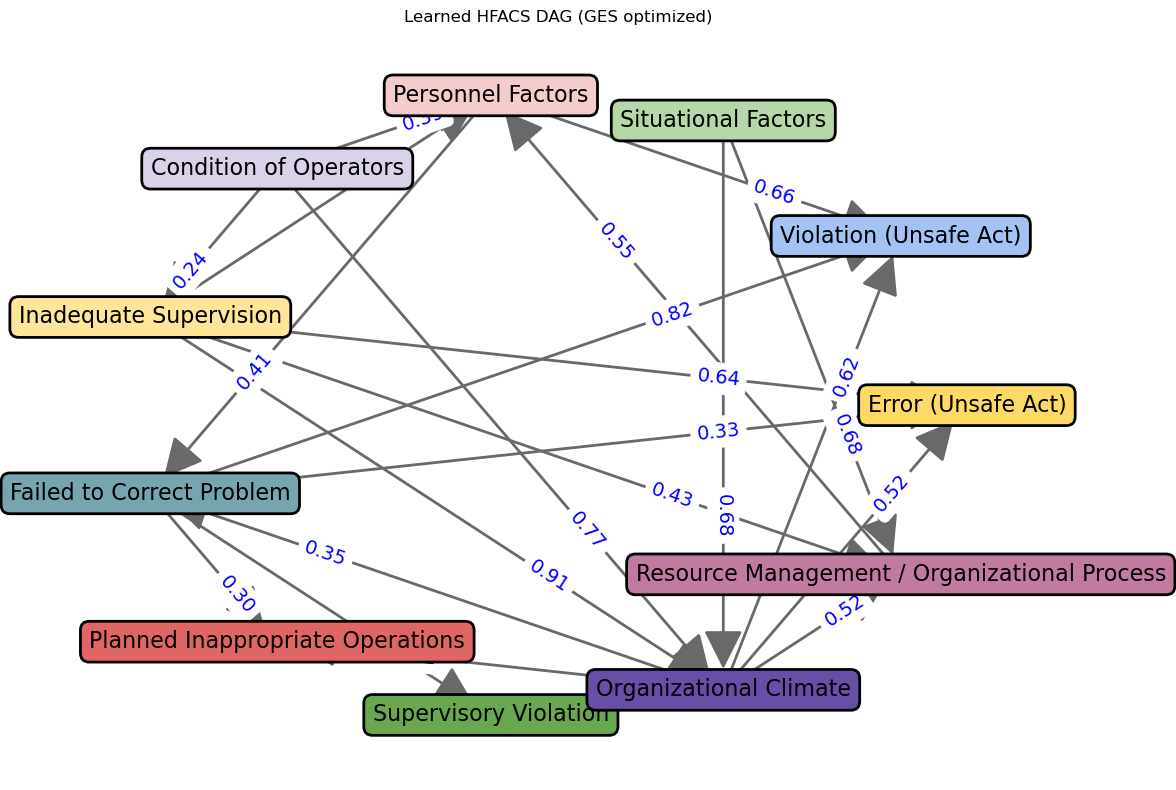
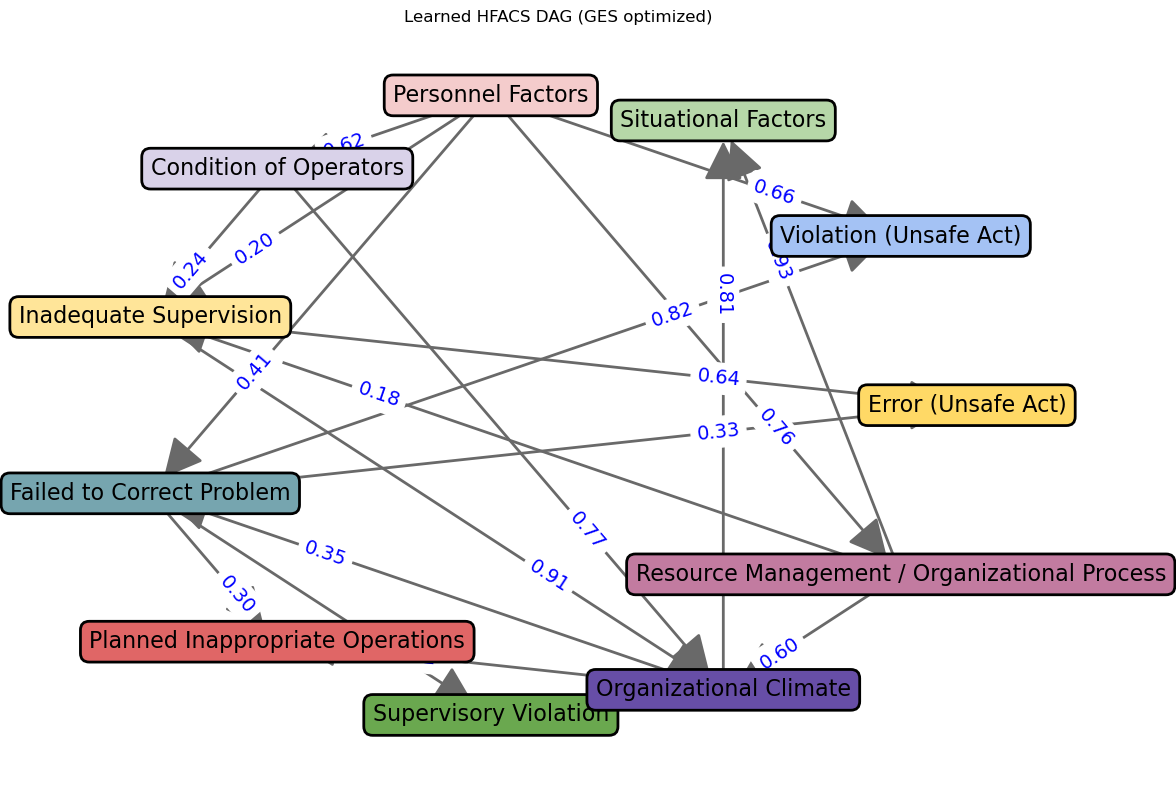
WIP

diff --git a/src/features/DAG.py b/src/features/DAG.py
@@ -4,9 +4,83 @@ import pandas as pd
 from pathlib import Path
 import networkx as nx
  
-from causallearn.search.ScoreBased.GES import ges
 
+from causallearn.search.ScoreBased.GES import ges
 from visualization.dag_graph import plot_dag
+
+# --- Load config from YAML (reuse svm.py logic) ---
+import os
+with open(os.path.join(os.path.dirname(__file__), '../../configs/config.yaml'), 'r', encoding='utf-8') as f:
+    config_yaml = yaml.safe_load(f)
+
+hfacs_categories = config_yaml['hfacs_categories']
+dag_cfg = config_yaml.get('dag', {})
+
+# Weights (reuse svm.py logic)
+error_weights = config_yaml.get('error_weights', {})
+viol_weights = config_yaml.get('viol_weights', {})
+ERROR_ANOM_COLS = list(error_weights.keys())
+VIOL_ANOM_COLS = list(viol_weights.keys())
+
+def _safe_binary_df(df: pd.DataFrame, cols: list[str]) -> pd.DataFrame:
+    """Return a 0/1 dataframe for requested cols; missing cols are treated as 0."""
+    out = pd.DataFrame(index=df.index)
+    for c in cols:
+        if c in df.columns:
+            s = pd.to_numeric(df[c], errors="coerce").fillna(0)
+            out[c] = (s > 0).astype(int)
+        else:
+            out[c] = 0
+    return out
+
+def make_three_class_target(
+    df: pd.DataFrame,
+    error_col: str,
+    viol_col: str,
+    tie_break: str = "error",
+) -> tuple[pd.Series, pd.DataFrame]:
+    """Build 3-class target: 0=neither, 1=Error, 2=Violation. Tie-breaking as described."""
+    if tie_break not in {"error", "violation"}:
+        raise ValueError("tie_break must be 'error' or 'violation'")
+    if error_col not in df.columns or viol_col not in df.columns:
+        raise KeyError(f"Missing target columns: {error_col} / {viol_col}")
+
+    err_flag = (pd.to_numeric(df[error_col], errors="coerce").fillna(0) > 0).astype(int)
+    vio_flag = (pd.to_numeric(df[viol_col], errors="coerce").fillna(0) > 0).astype(int)
+    err_df, vio_df = _safe_binary_df(df, ERROR_ANOM_COLS), _safe_binary_df(df, VIOL_ANOM_COLS)
+    err_count, vio_count = err_df.sum(axis=1), vio_df.sum(axis=1)
+    err_wsum = sum(err_df[c] * w for c, w in error_weights.items())
+    vio_wsum = sum(vio_df[c] * w for c, w in viol_weights.items())
+
+    y3 = pd.Series(0, index=df.index)
+    y3[(err_flag == 1) & (vio_flag == 0)] = 1
+    y3[(err_flag == 0) & (vio_flag == 1)] = 2
+
+    both = (err_flag == 1) & (vio_flag == 1)
+    if both.any():
+        to_error = both & (err_count > vio_count)
+        to_viol  = both & (vio_count > err_count)
+        tie_count = both & (err_count == vio_count)
+        to_error |= tie_count & (err_wsum > vio_wsum)
+        to_viol  |= tie_count & (vio_wsum > err_wsum)
+        tie_weight = tie_count & (err_wsum == vio_wsum)
+        if tie_break == "error":
+            to_error |= tie_weight
+        else:
+            to_viol |= tie_weight
+        y3[to_error] = 1
+        y3[to_viol] = 2
+
+    debug = pd.DataFrame({
+        "Error_flag": err_flag,
+        "Violation_flag": vio_flag,
+        "Err_anom_count": err_count,
+        "Viol_anom_count": vio_count,
+        "Err_weight_sum": err_wsum,
+        "Viol_weight_sum": vio_wsum,
+        "y3": y3,
+    }, index=df.index)
+    return y3, debug
 
 
 
@@ -189,6 +263,7 @@ def export_dag_outputs(G: nx.DiGraph, output_dir: str) -> None:
 
 
 
+
 def run_hfacs_causal_learn_ges(
     config_path: str = "./configs/config.yaml",
     data_path: str = "./data/processed/step3_hfacs_categories.csv",
@@ -201,7 +276,18 @@ def run_hfacs_causal_learn_ges(
     df = load_hfacs_data(data_path)
     categories = get_category_columns(config)
 
+    # --- Apply three-class scoring/weighting before DAG creation ---
+    # You can change these column names if needed
+    error_col = config.get('svm', {}).get('error_target_col', 'Error')
+    viol_col = config.get('svm', {}).get('viol_target_col', 'Violation')
+    tie_break = config.get('svm', {}).get('tie_break', 'error')
+    # Add y3 and debug columns to df
+    y3, debug = make_three_class_target(df, error_col, viol_col, tie_break)
+    df['y3'] = y3
+    # Use only rows with y3 > 0 (Error or Violation) for DAG learning
+    df = df[df['y3'] > 0].copy()
 
+    # Now proceed to DAG learning as before
     G, record = learn_dag_ges(
         df=df,
         categories=categories,
@@ -210,12 +296,9 @@ def run_hfacs_causal_learn_ges(
         score_func=score_func,
     )
 
-    
-
     export_dag_outputs(G, output_dir)
     plot_dag(G, save_path=str(Path(output_dir) / "learned_dag.pdf"))
 
-    # record often includes a score; keep print safe
     score = record.get("score", None)
     score_path = Path(output_dir) / "learned_dag_score.txt"
     if score is not None:

diff --git a/src/main.py b/src/main.py
@@ -324,7 +324,7 @@ with skip_run("skip", "bayesian") as check:
 
 
 
-with skip_run("run", "svm") as check:
+with skip_run("skip", "svm") as check:
     if check():
         from features import svm
         print("[INFO] Running SVM prediction...")
@@ -337,7 +337,7 @@ with skip_run("run", "svm") as check:
        
 
 
-with skip_run("skip", "dag") as check:
+with skip_run("run", "dag") as check:
     if check():
         print("[INFO] Running DAG discovery with causal-learn...")
         run_hfacs_causal_learn_ges(
